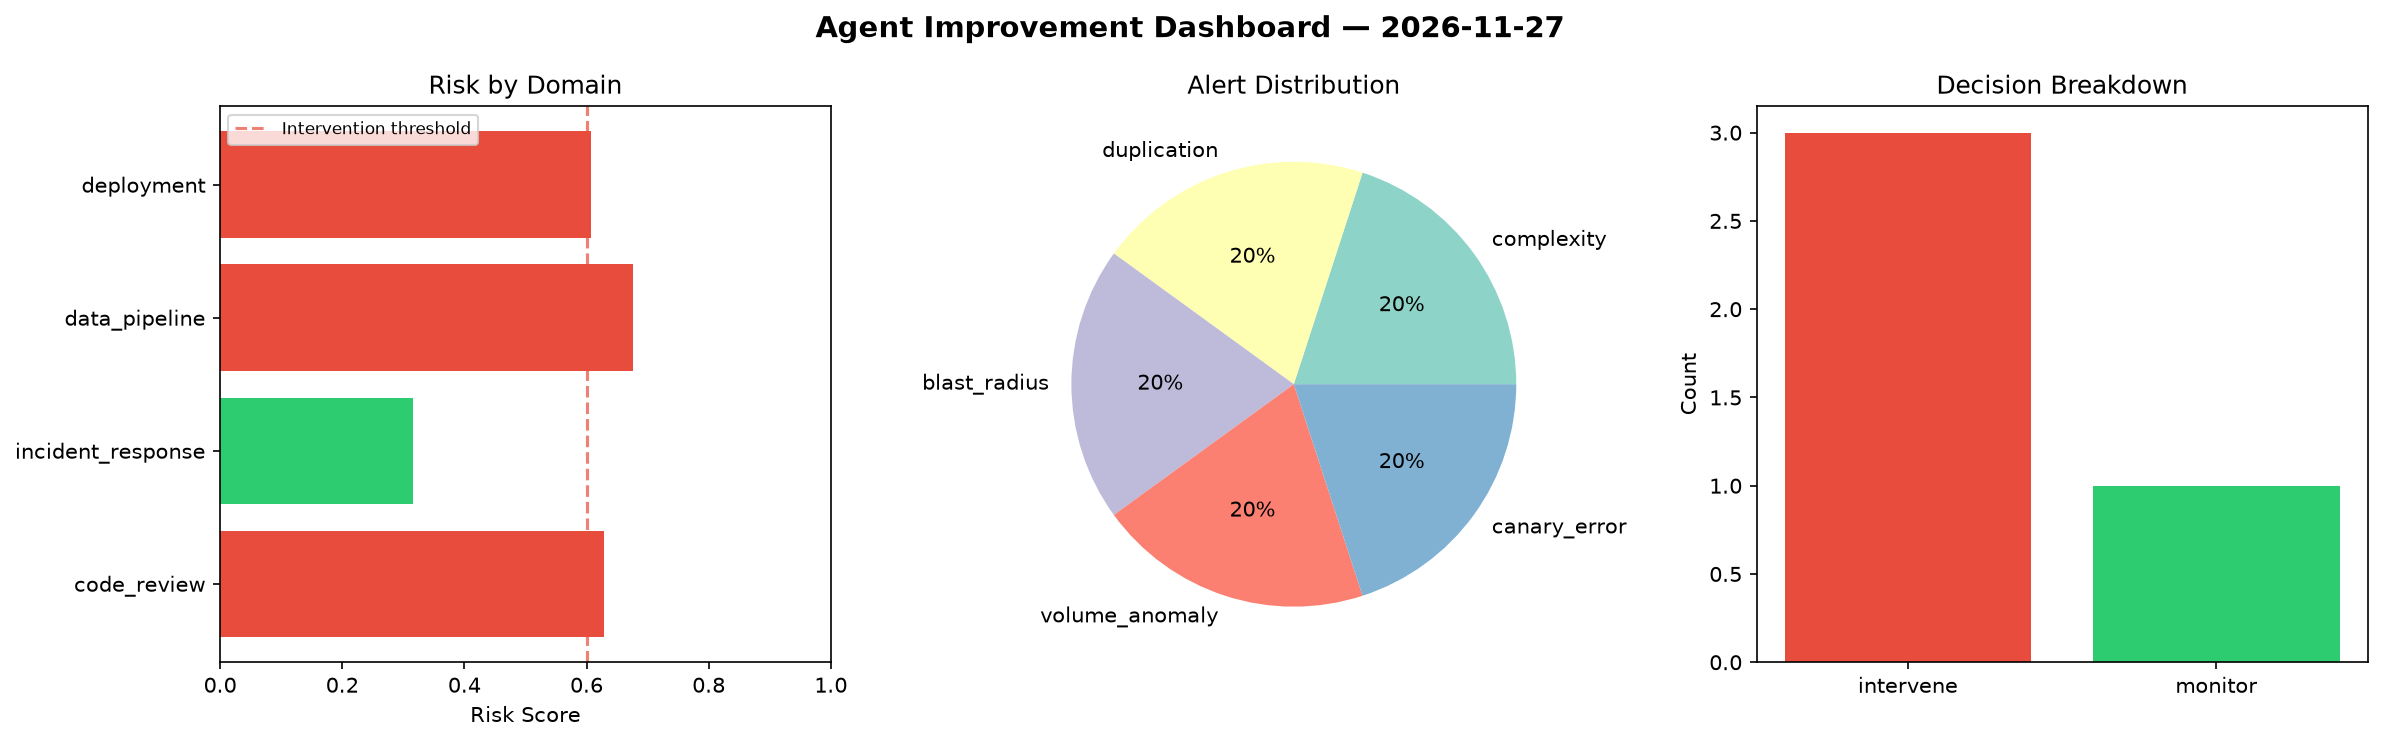
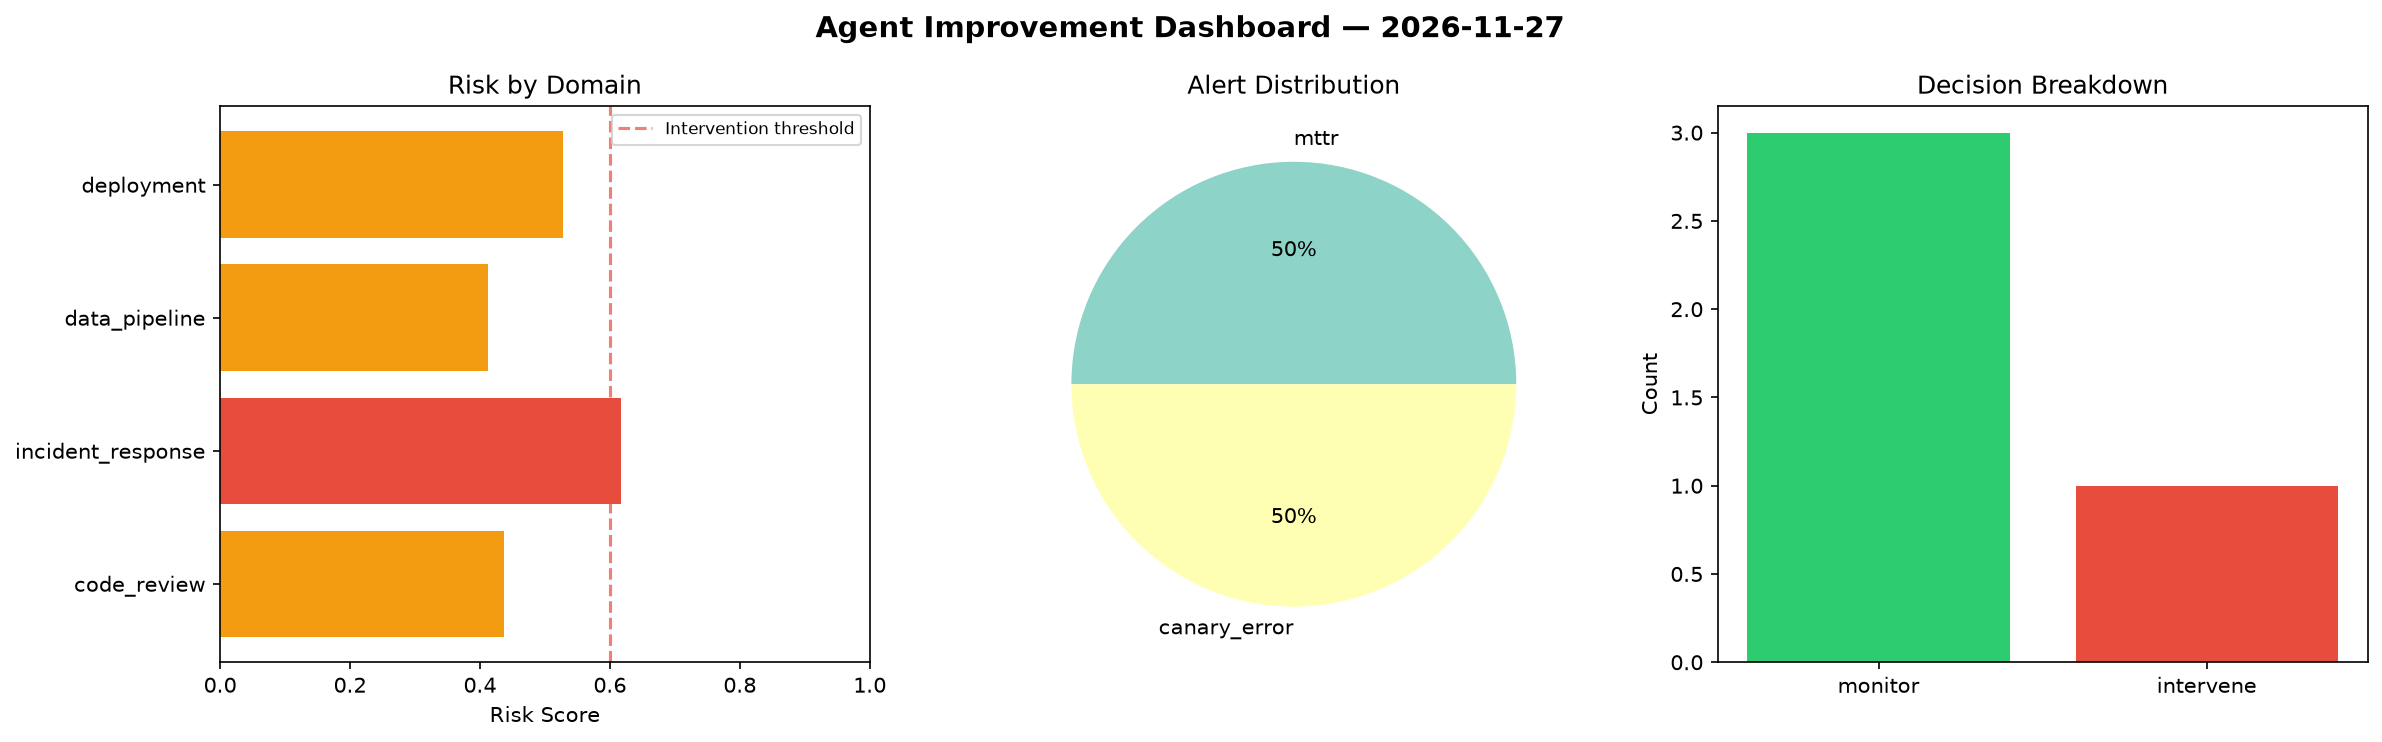
agent-improvement: daily cycle 2026-11-27T22:43

diff --git a/logs/2026-11-27.md b/logs/2026-11-27.md
@@ -1,6 +1,6 @@
 # Agent Improvement Report — 2026-11-27
 
-**Cycle ID:** `2ac27b63` | **Avg Risk:** 0.5573 | **Interventions:** 3/4
+**Cycle ID:** `9709d2a4` | **Avg Risk:** 0.4991 | **Interventions:** 1/4
 
 ![Dashboard](2026-11-27_dashboard.png)
 
@@ -10,18 +10,18 @@
 
 | Domain | Risk Score | Decision | Alerts |
 |--------|-----------|----------|--------|
-| code_review | 0.6285 | intervene | complexity, duplication |
-| incident_response | 0.3162 | monitor | blast_radius |
-| data_pipeline | 0.6765 | intervene | volume_anomaly |
-| deployment | 0.608 | intervene | canary_error |
+| code_review | 0.4377 | monitor | none |
+| incident_response | 0.6176 | intervene | mttr |
+| data_pipeline | 0.4126 | monitor | none |
+| deployment | 0.5285 | monitor | canary_error |
 
 ## Delta vs Yesterday
 
 | Domain | Today | Yesterday | Change |
 |--------|-------|-----------|--------|
-| code_review | 0.6285 | 0.2913 | 📈 115.8% |
-| incident_response | 0.3162 | 0.6158 | 📉 -48.7% |
-| data_pipeline | 0.6765 | 0.0614 | 📈 1001.8% |
-| deployment | 0.608 | 0.4554 | 📈 33.5% |
+| code_review | 0.4377 | 0.2913 | 📈 50.3% |
+| incident_response | 0.6176 | 0.6158 | 📈 0.3% |
+| data_pipeline | 0.4126 | 0.0614 | 📈 572.0% |
+| deployment | 0.5285 | 0.4554 | 📈 16.1% |
 
-**Refinement:** `{'adjustment': 'maintain', 'trend': 'improving', 'window': 4}`
+**Refinement:** `{'adjustment': 'tighten_thresholds', 'trend': 'degrading', 'window': 4}`
